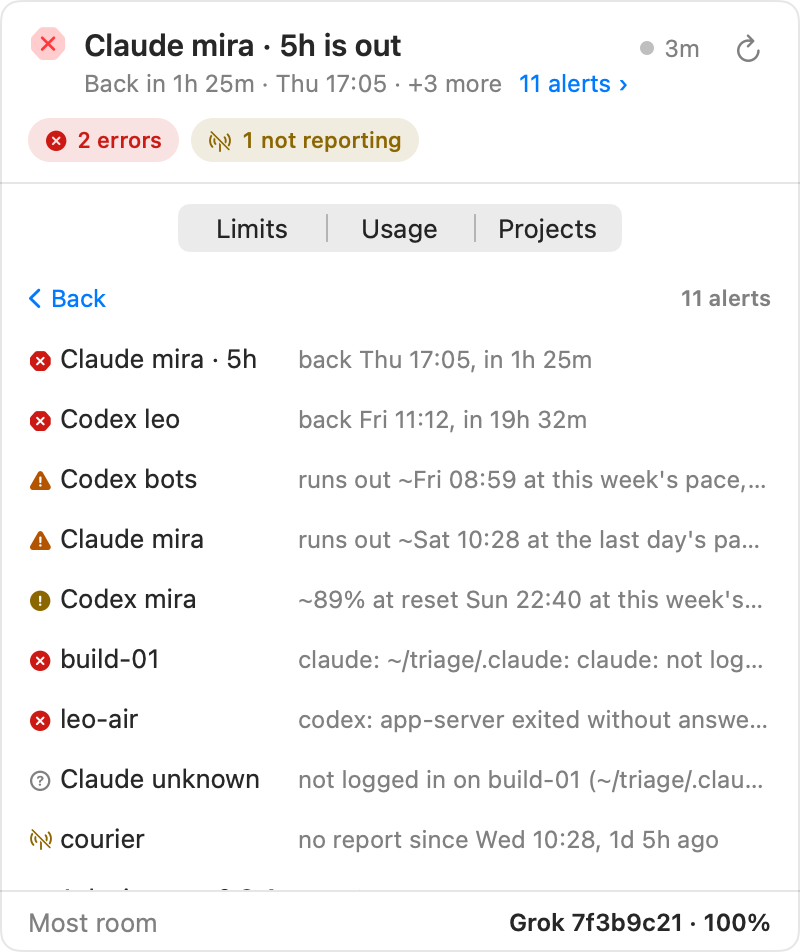
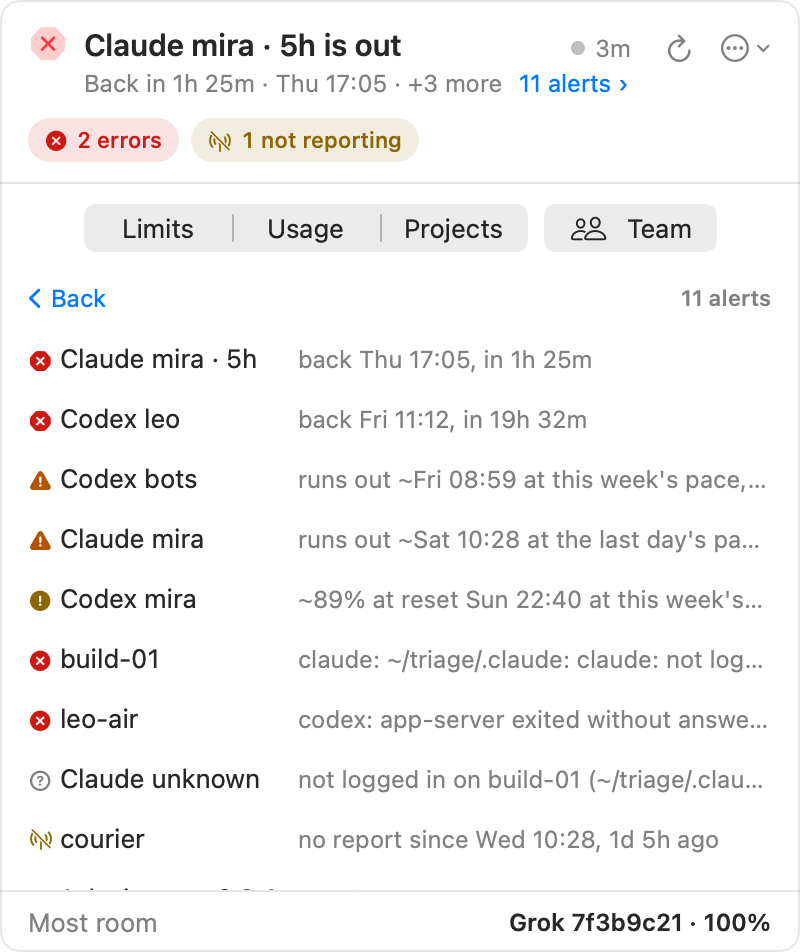
Describe the Team button, the menu and its sections, and About in the README, design.md, and the implementation status, and draw the app's pictures again with the new header and About, and the menu among them (#16).

diff --git a/scripts/demo/shots.ts b/scripts/demo/shots.ts
@@ -346,10 +346,10 @@ async function shootTour() {
 
 // app draws the macOS menu bar app with its own renderer: its item in the
 // menu bar over the popover, the popover's tabs, its alerts list, the
-// details of a subscription that runs out, the menu bar's looks, the Team
-// window's Usage and Status, and Settings' General pane, each dark and
-// light, and for posts the three tabs side by side on the backdrop. Only on
-// macOS, with Xcode or the Command Line Tools.
+// details of a subscription that runs out, the menu bar's looks, its menu,
+// the Team window's Usage and Status, and Settings' General pane, each dark
+// and light, and for posts the three tabs side by side on the backdrop. Only
+// on macOS, with Xcode or the Command Line Tools.
 async function app() {
   if (process.platform !== "darwin") return;
   const macos = join(root, "macos");
@@ -365,6 +365,7 @@ async function app() {
     ["popover-alerts", "app-alerts"],
     ["popover-limits-expanded-over", "app-details"],
     ["menubar-states", "app-menubar"],
+    ["menu", "app-menu"],
     ["team-usage", "app-team"],
     ["team-status", "app-team-status"],
     ["settings-general", "app-settings"],

diff --git a/README.md b/README.md
@@ -198,7 +198,7 @@ On macOS 14 and later, the installer also puts AI Usage, a menu bar app, in `~/A
   <img alt="The menu bar item in each state: on track, tight, used up, stale, over, out, time until reset, no reading, and the ring alone" src="docs/demo/app-menubar.png">
 </picture>
 
-**The popover** opens with one line that answers the first question: what is out and when it is back, what runs out and when, or that all is on track and where the most room is. When the report has more to say, the line ends with a link, "11 alerts ›", to every entry of its ATTENTION, in its order and its words, in place of the tab: one line each with the mark of its kind, a click opening the subscription in Limits or the devices in Usage, and last the subscription with the most room. Chips under it name what to fix on the devices, such as errors or a device that stopped reporting; a click shows those devices. The dot beside it is the collector's health and the report's age, and opens a menu with Collect Now, the Team window, the report, the device status view, and every project in Terminal, Settings, and Quit. Then three tabs:
+**The popover** opens with one line that answers the first question: what is out and when it is back, what runs out and when, or that all is on track and where the most room is. When the report has more to say, the line ends with a link, "11 alerts ›", to every entry of its ATTENTION, in its order and its words, in place of the tab: one line each with the mark of its kind, a click opening the subscription in Limits or the devices in Usage, and last the subscription with the most room. Chips under it name what to fix on the devices, such as errors or a device that stopped reporting; a click shows those devices. At the line's end, a dot is the collector's health with the report's age, ↻ collects now, and ⋯ opens the menu. Then three tabs, and for a team, the Team button, which opens the Team window:
 
 <table>
 <tr>
@@ -221,7 +221,14 @@ A click on a row opens its details: each window with its forecast, and the forec
 </tr>
 </table>
 
-**The Team window** has the whole team on one screen, as the terminal's DEVICES does. Team Window… in that menu opens it, and so do `⌘D` and the ⤢ at the top of Usage; with only this Mac there is no team, so neither shows. Usage puts each device against each subscription, grouped by tool, then the tokens no subscription covers and TOTAL. A cell is shaded by its tokens, a step for every half of a tenfold below the largest, as in the terminal, and its tooltip says "build-01 · Codex bots: 131M in 7 Days · 46% of column · 84M this window"; a subscription's name is in the color of its state. Status has each device's user, release (↓ when it is behind the latest), last report, the tools it reads (× for a failing one), its tokens in each period, and the report's NOTE. A click on a heading sorts the rows; until then they are in the report's order. As in the terminal, `1`, `7`, `3`, and `9` pick the period, `%` switches Usage between tokens and each device's share of its column, and `s` switches between Usage and Status. The window opens where it was last, at its size.
+**The menu**, under ⋯ or a click on the dot, has the collector's status, a colored dot for each part, and this Mac; then Collect Now, an update when there is one, and Team Window…; the report, the device status view, and every project in Terminal; and Settings and Quit. Each part is under a header, each action has its symbol, and the shortcuts, `⌘R`, `⌘D`, `⌘,`, and `⌘Q`, also work while the popover is open. A chip about the collector opens it with the chip's messages first, under Attention.
+
+<picture>
+  <source media="(prefers-color-scheme: light)" srcset="docs/demo/app-menu-light.png">
+  <img alt="The menu: Status with the collection, the relay, the update, and this Mac; Actions with Collect Now and Team Window; Open in Terminal with Report, Device Status, and All Projects; and AI Usage with Settings and Quit" src="docs/demo/app-menu.png" width="300">
+</picture>
+
+**The Team window** has the whole team on one screen, as the terminal's DEVICES does. The Team button beside the popover's tabs opens it, and so do `⌘D` and Team Window… in the menu; with only this Mac there is no team, so none of them shows. Usage puts each device against each subscription, grouped by tool, then the tokens no subscription covers and TOTAL. A cell is shaded by its tokens, a step for every half of a tenfold below the largest, as in the terminal, and its tooltip says "build-01 · Codex bots: 131M in 7 Days · 46% of column · 84M this window"; a subscription's name is in the color of its state. Status has each device's user, release (↓ when it is behind the latest), last report, the tools it reads (× for a failing one), its tokens in each period, and the report's NOTE. A click on a heading sorts the rows; until then they are in the report's order. As in the terminal, `1`, `7`, `3`, and `9` pick the period, `%` switches Usage between tokens and each device's share of its column, and `s` switches between Usage and Status. The window opens where it was last, at its size.
 
 <picture>
   <source media="(prefers-color-scheme: light)" srcset="docs/demo/app-team-light.png">
@@ -235,11 +242,11 @@ A click on a row opens its details: each window with its forecast, and the forec
 
 **Notifications** say when a window is out, "Claude mira · 5h is out", with when it is back, and when one will run out before its reset, "Claude mira · 7d runs out ~Sat 10:28", with how long before its reset. They are the windows the report's ATTENTION marks out and over, and Settings picks which: When a Window Is Out (on by default); When a Window Will Run Out, Within a Day (the default), Any Time, or Never, since a forecast early in a long window can say it runs out days ahead and change by the next reading; and Subscriptions, This Mac's (the default), those logged in here, or The Team's, every subscription with a reading, bots' included, where a notification also names the device that uses it most, "used on build-01 +9". Each window gets one notification per period and state, not one at every run: a forecast that dips under 100% and rises again says nothing new, and after its reset a window starts over. The app remembers what it said in its settings, so a restart says nothing twice. A click on a notification opens the popover on that subscription in Limits, when the menu bar has room to show the app's item. macOS asks for permission when there is first something to say, or when you turn a notification on; when you decline, the app asks no more, and Settings says where to turn notifications on.
 
-**Settings** does what the terminal commands do: this Mac's name in the team (`ai-usage name`), the names of accounts (`ai-usage alias`), the relay (`ai-usage relay`), the team key, open at login, what the menu bar shows and whose subscriptions it tracks, notifications, and updates.
+**Settings** does what the terminal commands do: this Mac's name in the team (`ai-usage name`), the names of accounts (`ai-usage alias`), the relay (`ai-usage relay`), the team key, open at login, what the menu bar shows and whose subscriptions it tracks, notifications, and updates. About names the app and its version once, beside Check for Updates, which runs `ai-usage update` and so updates the app too, and says where the command-line tool is. It names the tool's release only when it is another one, "Command-line tool v0.5.1: updates with Check for Updates", or says the tool is not found.
 
 <picture>
   <source media="(prefers-color-scheme: light)" srcset="docs/demo/app-settings-light.png">
-  <img alt="Settings, General: what the menu bar shows and whose subscriptions it tracks, notifications when a window is out or will run out and for whose subscriptions, this Mac's name, open at login, and the versions" src="docs/demo/app-settings.png" width="460">
+  <img alt="Settings, General: what the menu bar shows and whose subscriptions it tracks, notifications when a window is out or will run out and for whose subscriptions, this Mac's name, open at login, and About with the app's version and where the command-line tool is" src="docs/demo/app-settings.png" width="460">
 </picture>
 
 The app computes nothing itself. It runs `ai-usage report --json` every minute and when the popover opens, and shows what the report says: forecasts, states, what needs attention, and the collector's health. Its notifications come from the same report. It finds the binary through the launch agent, or shows the install command when there is none. To go without it, install with `AI_USAGE_NO_APP=1`, or remove it as [Uninstall](#uninstall) shows; self-update does not bring it back.

diff --git a/design.md b/design.md
@@ -255,8 +255,10 @@ The key bar follows the common practice of modern TUIs:
 
 The popover answers the same questions as the page, in the same order, in 400 points. The report decides everything it shows; the app only lays it out. Its renders are `AIUsageBar --render <report.json> <folder>`.
 
-- **The verdict line first.** The header is one sentence: what is out and when it is back, what will run out and when, or "All on track" with the subscription that has the most room. More of them count as "+N more", and a link after it, "11 alerts ›", shows every entry of the report's ATTENTION in place of the tab's body, at the same height: one line each in the report's order and words, `text` and `subject`, with the mark of its kind, opening its subscription in Limits or its devices in Usage, over a last line naming the subscription with the most room. Nothing the report says is hidden behind a count: an idle subscription is a dim line, an unread one says why. Without a reading, it says so. The dot beside it is the worst of the collector's health, with the report's age; the menu under it has the details.
+- **The verdict line first.** The header is one sentence: what is out and when it is back, what will run out and when, or "All on track" with the subscription that has the most room. More of them count as "+N more", and a link after it, "11 alerts ›", shows every entry of the report's ATTENTION in place of the tab's body, at the same height: one line each in the report's order and words, `text` and `subject`, with the mark of its kind, opening its subscription in Limits or its devices in Usage, over a last line naming the subscription with the most room. Nothing the report says is hidden behind a count: an idle subscription is a dim line, an unread one says why. Without a reading, it says so. The dot beside it is the worst of the collector's health, with the report's age.
 - **Chips for what to fix.** Errors, devices not reporting, devices that stopped updating themselves, and health that is failing or unscheduled get a chip each, with a count. A device on an older release that still updates itself is lag after a release, not a chip. A problem of this Mac that a health chip names is not counted again among the errors. A click filters Usage to those devices, and the chosen chip shows it and clears it on a second click; a health chip opens the menu, which lists the chip's messages. Subscriptions do not get chips: the verdict and Limits have them.
+- **Every way in shows.** The header ends in the status dot, ↻, which collects now, and ⋯ with a chevron, the menu's pull-down, as a Mac toolbar draws one; a click on the dot opens the same menu, but is not the only way in. The menu puts what it holds under section headers: Attention, when a chip opens it, with its messages, at most 8 lines; Status, a colored dot for each part of the collector, and this Mac; Actions; Open in Terminal; and AI Usage, with Settings and Quit. Each action has its symbol, which macOS 27 would leave out unless asked, and its shortcut. A team's Team window has a button with its name and symbol beside the tabs, the popover's one way to it, which keeps its name and drops its symbol when they do not fit; one device gets none. Collect Now and the Team window are a click away, and Settings is in the menu a click opens, and at `⌘,`.
+- **Said once.** Settings' About names the app and its version once, beside Check for Updates, and where the command-line tool is. The tool's release is a line under it only when it is another one, "Command-line tool v0.5.1: updates with Check for Updates", or the tool is not found.
 - **Color means a problem.** Red is out, orange runs out, yellow is tight, and all else is gray: a window left mostly unused has a gray arrow, and this Mac a gray laptop. Every color also reads as a glyph or a word. The popover has no green, and no blue but its controls.
 - **The projected bar.** A Limits bar is what is left, solid from the leading edge, as the percent beside it and the menu bar's ring are: it drains as the window fills. What the forecast says will be gone by the reset is cut from its end, faint, so the solid part is what will be left then. A forecast past 100% makes the whole fill faint, with a notch at the leading edge. An out window is an empty track tinted red. An old reading is dim, and so is the bar of an account that another window stops: its mark and countdown say why, in red.
 - **A row is the account's state.** A Limits row shows its main window's bar and percent, and the account's state from the report: when another window stops it, the row takes that window's mark and counts down to when it is back, with the window named under it. A row that runs out counts down to when its first window does, "↘17h 19m" in orange, or says "↘ ran out" when an old reading has, with the window and its reset under it and in the tooltip; the countdown is the report's `runs_out_at`, the earliest of the account's windows.
@@ -267,7 +269,7 @@ The popover answers the same questions as the page, in the same order, in 400 po
 
 The menu bar item is a ring of what is left of the tightest window, drawn from 12 o'clock like a battery, with its percent left, the time until its reset, or nothing, as Settings picks. It tracks this Mac's subscriptions, the ones its person can act on, unless Settings' Track asks for the team's. It is a template image, in the menu bar's own color, until a window runs out or will. One that will is an orange arc over an orange tint; one that is out, the most urgent, is the strongest mark, a solid red disc with a white cross, and the item shows the time until it is back.
 
-The Team window is the console's DEVICES at a desk: the whole team on one screen, for the person who looks after it, while the popover stays the glance it is. It opens from the status menu, `⌘D`, and a ⤢ at the top of Usage, and only for a team: with one device, Usage already shows it whole. Its controls are the console's, keys included: Usage or Status, the period, and tokens or shares; its header line counts the devices, errors, and devices not reporting, as the console's status view does.
+The Team window is the console's DEVICES at a desk: the whole team on one screen, for the person who looks after it, while the popover stays the glance it is. It opens from the Team button beside the popover's tabs, `⌘D`, and the menu, and only for a team: with one device, Usage already shows it whole. Its controls are the console's, keys included: Usage or Status, the period, and tokens or shares; its header line counts the devices, errors, and devices not reporting, as the console's status view does.
 
 - **The report's table, laid out.** Usage is the report's `team.matrix`: its rows, its columns, their order, and their numbers, with TOTAL. The columns sit under their tool's name in a two-line heading, each subscription's name in the color of its state; NO QUOTA is a group of its own. A cell is shaded on the console's log scale, a step for every half of a tenfold below the largest cell, so a bot's 2M still reads beside a laptop's 160M. Its tooltip says the cell in full: "build-01 · Codex bots: 131M in 7 Days · 46% of column · 84M this window". Status is the console's status view, with `devices[].note` as the note in full in its tooltip.
 - **Sorting is the person's.** Rows keep the report's order, the most weighted tokens over 7 days first, until a click on a heading sorts them; TOTAL stays last. Ties keep the report's order.

diff --git a/ai-report.md b/ai-report.md
@@ -240,6 +240,8 @@ Done, in short:
   - macOS 27: an update no longer costs a scheduled run when a run a person starts installs it, and a run a person starts repairs an agent launchd refused, as "Binary and scheduling" says. `status` and `schedule status` say when launchd refused the agent.
 - **v0.6.0**
   - The menu bar app has a Team window (#8), from the status menu, `⌘D`, and Usage, for a team of more than one device: Usage lays out `team.matrix`, its rows, columns, order, and numbers, with heat shading on the console's log scale and sortable columns, and Status each `team.devices` entry with its `note`. Settings' Track makes the menu bar's ring follow the team's subscriptions in place of this Mac's.
+- **Next release**, after v0.6.0
+  - The menu bar app's ways in show: a team's Team window has a Team button beside the popover's tabs, in place of the ⤢ in Usage, and the header has a ⋯ pull-down for the menu beside the status dot, which still opens it too. The menu puts its items under section headers, Attention, Status, Actions, Open in Terminal, and AI Usage, with a symbol for each action, at most 8 lines of a chip's messages, and the shortcuts. Settings' About names the app and its version once, and the command-line tool's release only when it is another one or the tool is not found.
 - **Menu bar app** (`macos/`): on macOS 14 and later, `install.sh` also puts AI Usage, a SwiftUI menu bar app, in `~/Applications` and opens it, and self-update keeps it at the binary's release (`ai-usage_darwin_app.zip`, universal and ad-hoc signed). It shows `ai-usage report --json` and changes settings through the same commands a terminal would, so every number, state, forecast, window that limits an account (`limits`), and the collector's health (`collector.health`) comes from the Go report. It starts at login. `AI_USAGE_NO_APP=1` installs without it.
   - Notifications: when a window is `out` or `over` in `attention`, the app posts a notification with the account, the window, and when it runs out or is back. Settings picks which: `out` ones (on by default); `over` ones whose `at`, or `resets_at` when it runs out then, is within a day (the default), at any time, or never; and whose: this Mac's subscriptions (team accounts with `current`, the default) or the team's (every team account with a reading), where the body also names the account's `busiest` device and how many more `users` it has. It says each window once per period and state: once when it runs out before its reset, once more when it is out, and again only after a reset, which the window's `resets_at` tells, give or take half the window's length. A forecast that dips under 100% and rises again in the same period says nothing new. What it said stays in the app's settings, so a restart repeats nothing. A click opens the popover on the account's row in Limits. macOS asks for permission at the first notification, or when a notification is turned on; a refusal stands, and the app asks no more.
 

diff --git a/docs/demo/README.md b/docs/demo/README.md
@@ -43,9 +43,10 @@ TZ=Europe/Berlin ai-usage report --from docs/demo/solo.json --plain --width 110
 | `app-alerts.png`, `app-alerts-light.png` | the app's alerts, every entry of ATTENTION in place of Limits, with the subscription with the most room under them |
 | `app-details.png`, `app-details-light.png` | the app's Limits with the details of a subscription that runs out open: its countdown, each window, the forecast, who spent the window, and when it was last used |
 | `app-menubar.png`, `app-menubar-light.png` | the app's item in the menu bar in each state: on track, tight, used up, stale, over, out, time until reset, no reading, and the ring alone |
+| `app-menu.png`, `app-menu-light.png` | the app's menu, opened from the popover's ⋯: the collector's status and this Mac, then its actions, Terminal's views, Settings, and Quit, each under its header |
 | `app-team.png`, `app-team-light.png` | the app's Team window on Usage: every device against every subscription over 7 days, shaded by tokens |
 | `app-team-status.png`, `app-team-status-light.png` | the app's Team window on Status: each device's user, release, last report, tools, tokens in each period, and note |
-| `app-settings.png`, `app-settings-light.png` | the app's Settings on General: what the menu bar shows and tracks, notifications, this Mac's name and opening at login, and the versions |
+| `app-settings.png`, `app-settings-light.png` | the app's Settings on General: what the menu bar shows and tracks, notifications, this Mac's name and opening at login, and About: the app's version and where the command-line tool is |
 | `social/app-tabs.png` | the app's three tabs side by side on a backdrop, for posts |
 | `social/architecture.png` | how a team's numbers travel, drawn from `scripts/demo/diagram.html` |
 | `social/*.png` | the pictures marked for posts, on a backdrop; the README shows these |
@@ -75,6 +76,7 @@ The menu bar app draws its own pictures with `AIUsageBar --render REPORT OUTDIR`
 - `team-usage-LOOK.png`, `team-share-LOOK.png`, and `team-status-LOOK.png`, the Team window on Usage in tokens and in shares, and on Status; a report of one device has none
 - `settings-PANE-LOOK.png`, each Settings pane: `general`, `accounts`, and `team`
 - `menubar-LOOK.png`, the app's item in the menu bar with the popover on Limits under it, and `menubar-states-LOOK.png`, the item in each state
+- `menu-LOOK.png`, the menu that ⋯ opens. AppKit draws a menu only while it is open, so it shows on the screen for a moment, in the corner away from the pointer, and is drawn from its window; with no screen to show it on, as over SSH, the renderer says so and draws the rest
 
 ```sh
 cd macos
